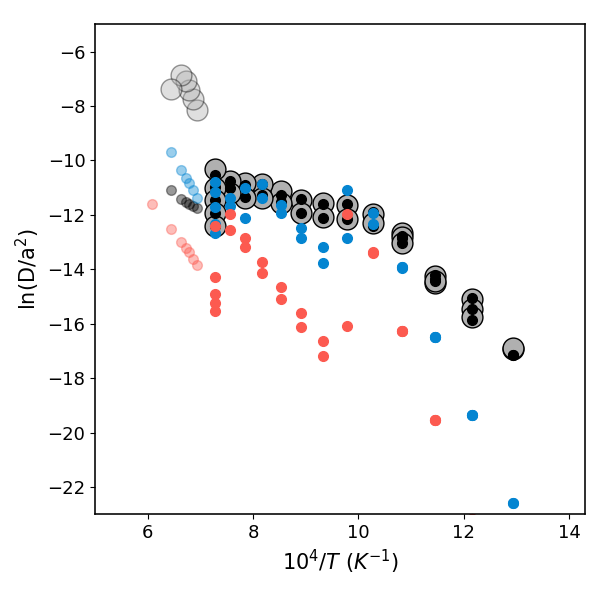
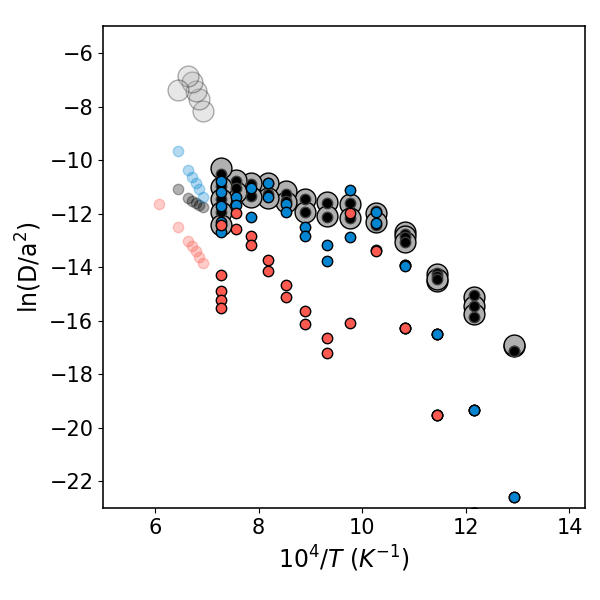
updated figures

diff --git a/utils/plot_results_schematic.py b/utils/plot_results_schematic.py
@@ -152,7 +152,7 @@ def plot_results_schematic(
 
 
     marker_size_measured = 15
-    marker_size_modeled = marker_size_measured-8
+    marker_size_modeled = marker_size_measured-7.5
     # Avoid having a value close to inf plot and rescale the plot..
     if any(dataset["ln(D/a^2)"].isna()):
         indices = dataset["ln(D/a^2)"].isna()
@@ -185,7 +185,7 @@ def plot_results_schematic(
                 axis=1
             ).T
         )
-    
+    alpha1 = 1
     color_best_fit = "black"
     color_else =(4/255, 133/255, 209/255) #'red'
     color_med = (252/255,90/255,80/255)
@@ -197,8 +197,8 @@ def plot_results_schematic(
          markersize=marker_size_modeled, 
          color=color_best_fit, 
          linewidth=1, 
-         mec=color_best_fit,
-         zorder = 2
+         mec=(60/255,62/255,60/255),
+         zorder = 2,
     )
     
     plt.plot(
@@ -208,8 +208,9 @@ def plot_results_schematic(
         markersize=marker_size_modeled, 
         color=color_else, 
         linewidth=1, 
-        mec=color_else,
-        zorder = 2
+        mec='black',
+        zorder = 2,
+        alpha = alpha1
     )
     plt.plot(
         T_plot[included],
@@ -218,7 +219,8 @@ def plot_results_schematic(
         markersize=marker_size_modeled, 
         color=color_med, 
         linewidth=1, 
-        mec=color_med,
+        mec='black',
+        alpha = alpha1,
         zorder = 2
     )
   
@@ -232,7 +234,7 @@ def plot_results_schematic(
          linewidth=1, 
          mec=color_best_fit,
          zorder = 2,
-         alpha = 0.4
+         alpha = 0.3
     )
 
         # Plot the MDD Model ln(D/a^2) values that were omitted
@@ -245,7 +247,7 @@ def plot_results_schematic(
          linewidth=1, 
          mec=color_else,
          zorder = 2,
-         alpha = 0.4
+         alpha = 0.3
     )
 
     plt.plot(
@@ -257,7 +259,7 @@ def plot_results_schematic(
          linewidth=1, 
          mec=color_med,
          zorder = 2,
-         alpha = 0.4
+         alpha = 0.3
     )
 
 
@@ -275,10 +277,6 @@ def plot_results_schematic(
     )
 
 
-
-
-
-
     # Plot the experimental ln(D/a^2) values that were omitted
     plt.errorbar(
         T_plot[omitted],
@@ -290,11 +288,11 @@ def plot_results_schematic(
         linewidth=1,
          mec='black', 
         zorder = 1,
-        alpha = 0.4
+        alpha = 0.3
     )
 
 
-    label_size = 15
+    label_size = 17
     tick_text_size = label_size-2
 
     # Label and format axes
@@ -342,15 +340,20 @@ def plot_results_schematic(
     temp = Fi[1:] - Fi[0:-1]
     Fi = np.insert(temp, 0, Fi[0])
 
-    # Plot T_plot vs the gas fraction observed at each step for values that were included
+
+
+
+    marker_size_measured_fig2 = 19
+    marker_size_modeled_fig2 = marker_size_measured_fig2-8
+    # Plot T_plot vs the gas fraction observed at each step 1for values that were included
     plt.errorbar(
         included+1,
         Fi[included],
         fmt='o', 
-        markersize=marker_size_measured, 
+        markersize=marker_size_measured_fig2, 
         mfc= (0.69,0.69,0.69), 
         mec='black', 
-        zorder = 5,
+        zorder = 2,
         linewidth = 1,
         color = 'k'
     )
@@ -360,10 +363,10 @@ def plot_results_schematic(
         omitted+1,
         Fi[omitted],
         fmt='o', 
-        markersize=marker_size_measured, 
+        markersize=marker_size_measured_fig2, 
         mfc= (0.69,0.69,0.69), 
         mec='black', 
-        zorder = 5,
+        zorder = 2,
         linewidth = 1,
         color = 'k',
         alpha = 0.3
@@ -373,68 +376,43 @@ def plot_results_schematic(
     plt.plot(included+1, 
                     Fi_MDD[included], 
                     "o", 
-                    markersize=marker_size_modeled, 
+                    markersize=marker_size_modeled_fig2, 
                     color=color_best_fit, 
                     linewidth=1, 
                     mec=color_best_fit,
-                    zorder = 10
+                    zorder = 4
                     )
 
     line, = plt.plot(included+1, 
                     Fi_MDD2[included], 
                     "o", 
-                    markersize=marker_size_modeled, 
+                    markersize=marker_size_modeled_fig2, 
                     color=color_else, 
-                    linewidth=.5, 
-                    mec=color_else,
-                    zorder = 10
+                    linewidth=1, 
+                    mec='black',
+                    zorder = 6
                     )
-
-    plt.plot(included+1, 
-                    Fi_MDD3[included], 
-                    "o", 
-                    markersize=marker_size_modeled, 
-                    color=color_med, 
-                    linewidth=.5, 
-                    mec=color_med,
-                    zorder = 10
-                    )
-
-
-    # Plot T_plot vs the modeled gas fraction observed at each step that was omitted
-    # plt.plot(omitted+1, 
-    #                 Fi_MDD[omitted], 
-    #                 "o", 
-    #                 markersize=marker_size_modeled, 
-    #                 color=color_best_fit, 
-    #                 linewidth=1, 
-    #                 mec='black',
-    #                 zorder = 10,
-    #                 alpha = 0.55
-    #                 )
     
-        # Plot T_plot vs the modeled gas fraction observed at each step that was omitted
-    # plt.plot(omitted+1, 
-    #                 Fi_MDD2[omitted], 
+    # plt.plot(included+1, 
+    #                 Fi_MDD2[included], 
     #                 "o", 
     #                 markersize=marker_size_modeled, 
     #                 color=color_else, 
     #                 linewidth=1, 
-    #                 mec=color_else,
-    #                 zorder = 15,
-    #                 alpha = 0.6
+    #                 mec='black',
+    #                 zorder = 10
     #                 )
     
-    # plt.plot(omitted+1, 
-    #                 Fi_MDD3[omitted], 
-    #                 "o", 
-    #                 markersize=marker_size_modeled, 
-    #                 color=color_med, 
-    #                 linewidth=1, 
-    #                 mec=color_med,
-    #                 zorder = 15,
-    #                 alpha = 0.6
-    #                 )
+    plt.plot(included+1, 
+                    Fi_MDD3[included], 
+                    "o", 
+                    markersize=marker_size_modeled_fig2, 
+                    color=color_med, 
+                    linewidth=1, 
+                    mec='black',
+                    zorder = 8
+                    )
+
 
     # This loop draws lines between the points and makes them transparent depending on whether 
     # or not each value was included in the optimization/fitting
@@ -448,7 +426,7 @@ def plot_results_schematic(
                      '-',
                      color = color_best_fit,
                      alpha = alpha_val,
-                     zorder = 10
+                     zorder = 3
                      )
             plt.plot(range(i+1,i+3),
                      Fi[i:i+2],
@@ -470,7 +448,7 @@ def plot_results_schematic(
                     color = "black",
                     alpha = alpha_val,
                     linewidth = 1,
-                    zorder = 15
+                    zorder = 5
                     )
         plt.plot(range(i+1,i+3),
                     Fi_MDD3[i:i+2],
@@ -478,14 +456,14 @@ def plot_results_schematic(
                     color = "black",
                     alpha = alpha_val,
                     linewidth = 1,
-                    zorder = 15
+                    zorder = 7
                     )
 
     # Label axes
-    plt.xlabel("Step Number",fontsize = 15)
-    plt.ylabel("Fractional Release (%)", fontsize = 15)
+    plt.xlabel("Step Number",fontsize = label_size)
+    plt.ylabel("Fractional Release (%)", fontsize = label_size)
     plt.xlim(0,33)
-    plt.ylim(-.003,0.08)
+    plt.ylim(-.003,0.06)
     plt.xticks(fontsize = tick_text_size)
     plt.yticks(fontsize = tick_text_size)
 
